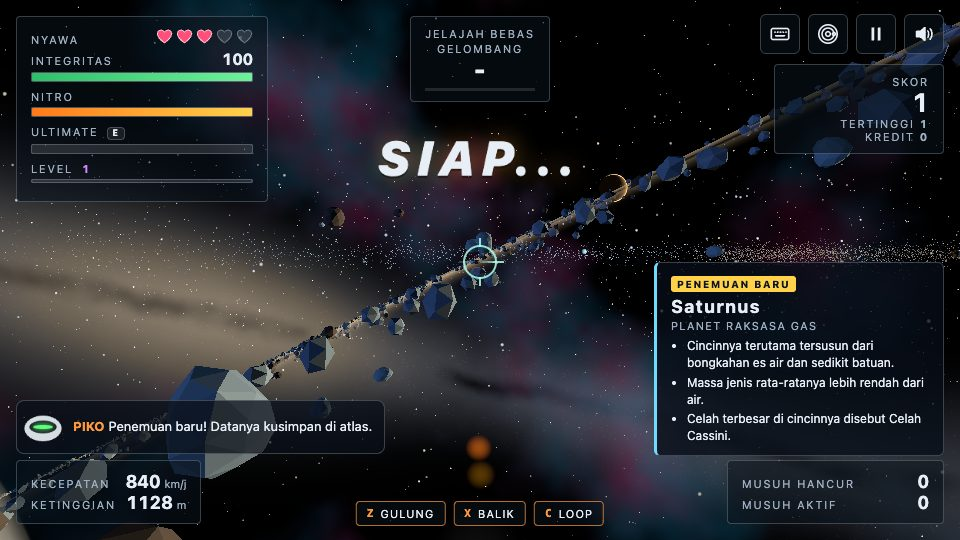
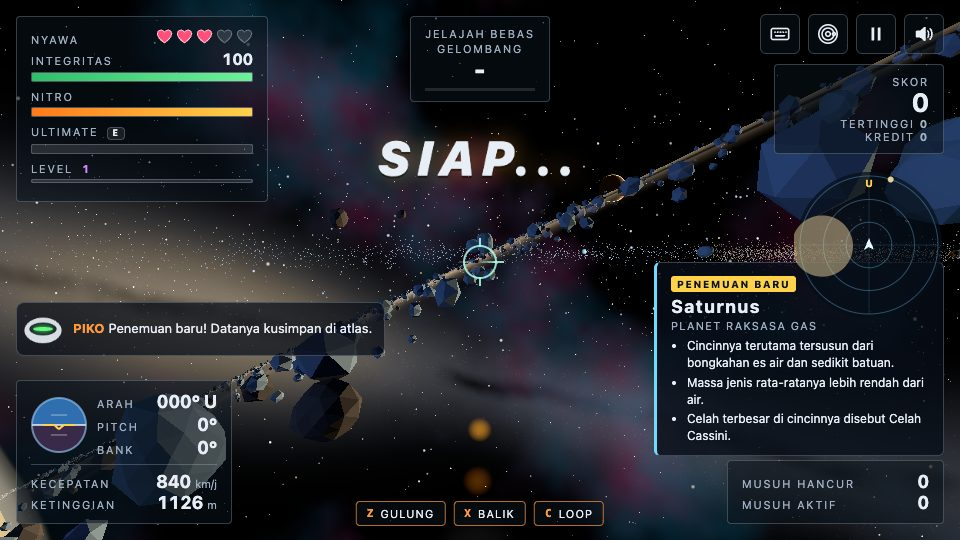
feat: S13 HUD radar minimap berputar, instrumen terbang (arah, pitch, bank, horizon buatan), dan angka skor serta damage besar
Sesuai permintaan pemain: minimap menampilkan musuh, bos, pickup, planet,
gerbang, kargo, dan target kontrak relatif arah kapal dengan panah tujuan
misi; instrumen menunjukkan arah kompas dalam derajat, pitch dan bank yang
bernilai 0 saat datar, dan horizon buatan kecil. Uji Playwright.

diff --git a/index.html b/index.html
@@ -195,7 +195,7 @@
   .buff[data-buff="destroyer"] { color: #d58bff; border-color: rgba(200, 100, 255, 0.6); }
   body.mode-hp #buffs { top: calc(200px + env(safe-area-inset-top)); }
   #piko-panel {
-    position: absolute; left: 16px; bottom: calc(86px + env(safe-area-inset-bottom)); display: flex; align-items: center; gap: 10px;
+    position: absolute; left: 16px; bottom: calc(184px + env(safe-area-inset-bottom)); display: flex; align-items: center; gap: 10px;
     max-width: min(380px, 42vw); padding: 6px 12px 6px 6px; background: rgba(8, 14, 24, 0.72); border: 1px solid var(--ui-line); border-radius: 8px;
   }
   #piko-face { width: 40px; height: 40px; flex: none; }
@@ -224,6 +224,14 @@
   #boss-fill { display: block; height: 100%; background: linear-gradient(90deg, #ff2d6a, #ff9a3c); transform-origin: left center; }
   #screen-levelup .card, #screen-contract .card { max-width: 760px; }
   .mission { color: #9fe8ff; margin-top: 2px; }
+  #radar { position: absolute; right: 16px; top: calc(170px + env(safe-area-inset-top)); width: 150px; height: 150px; }
+  .instr { display: flex; align-items: center; gap: 10px; margin-bottom: 6px; padding-bottom: 6px; border-bottom: 1px solid var(--ui-line); }
+  #attitude { width: 56px; height: 56px; flex: none; }
+  .instr-txt { display: grid; gap: 2px; min-width: 120px; }
+  .instr-txt .stat { gap: 10px; }
+  .instr-txt .num { font-size: 13px; }
+  .dmgnum.score { color: #ffd24a; font-size: 22px; text-shadow: 0 0 10px rgba(255, 190, 60, 0.6), 0 1px 2px #000; }
+  .dmgnum.hurt { color: #ff5a4a; font-size: 26px; text-shadow: 0 0 10px rgba(255, 60, 40, 0.7), 0 1px 2px #000; }
   .mission:empty { display: none; }
   .ct-head { text-align: center; }
   .ct-head h2 { font-size: clamp(22px, 4vw, 34px); margin: 4px 0 0; }
@@ -581,9 +589,18 @@
     <div class="label">KREDIT <span id="credits" class="num">0</span></div>
   </div>
   <div class="hud-block bl">
+    <div class="instr">
+      <canvas id="attitude" width="56" height="56" aria-label="Horizon buatan"></canvas>
+      <div class="instr-txt">
+        <div class="stat"><span class="label">ARAH</span><span id="hdg" class="num">000</span></div>
+        <div class="stat"><span class="label">PITCH</span><span id="pitch" class="num">0</span></div>
+        <div class="stat"><span class="label">BANK</span><span id="bank" class="num">0</span></div>
+      </div>
+    </div>
     <div class="stat"><span class="label">KECEPATAN</span><span><span id="speed" class="num">0</span> <span class="unit">km/j</span></span></div>
     <div class="stat"><span class="label">KETINGGIAN</span><span><span id="alt" class="num">0</span> <span class="unit">m</span></span></div>
   </div>
+  <canvas id="radar" width="150" height="150" aria-label="Radar"></canvas>
   <div class="hud-block br">
     <div class="stat"><span class="label">MUSUH HANCUR</span><span id="kills" class="num">0</span></div>
     <div class="stat"><span class="label">MUSUH AKTIF</span><span id="enemies" class="num">0</span></div>
@@ -1262,6 +1279,8 @@ const CONFIG = {
       laserWarn: 1.0, laserTime: 1.6, laserLength: 420, laserWidth: 5, laserHit: 22, laserCooldown: 5,
     },
   },
+  // Radar minimap (atas = arah kapal)
+  radar: { rangeSpace: 900, rangeEarth: 700, elevationMark: 40 },
   // Kontrak stage kampanye (A6)
   contracts: { clearBase: 10, clearPerStage: 2, convoyDistance: 2600, convoySpeed: 42, convoyHp: 300, huntDelay: 6, starCredits: 20 },
   // XP dan level (S11): kebutuhan XP level n = base x growth^(n-1)
@@ -8197,6 +8216,155 @@ Events.on('enemyDestroyed', (e, byPlayer) => {
 Events.on('damage', (entity, dealt) => { if (entity === Player ? Contracts.stats : false) Contracts.stats.hpLost += dealt; });
 Events.on('playerDeath', () => { if (Contracts.stats) Contracts.stats.livesLost++; });
 
+/* =====================================================================
+   RADAR DAN INSTRUMEN (S13, permintaan pemain) - minimap melingkar yang berputar
+   mengikuti arah kapal (atas = depan): musuh, bos, pickup, planet, gerbang, kargo,
+   target kontrak, dan panah tujuan misi. Instrumen: kompas arah dalam derajat,
+   pitch dan bank (0 saat datar), dan horizon buatan kecil.
+   ===================================================================== */
+const Radar = {
+  cv: document.getElementById('radar'), ctx: null, size: 0, frame: 0, counts: {},
+  att: document.getElementById('attitude'), actx: null,
+  init() {
+    const dpr = Math.min(2, window.devicePixelRatio || 1);
+    this.size = this.cv.clientWidth || 150;
+    this.cv.width = this.size * dpr; this.cv.height = this.size * dpr;
+    this.ctx = this.cv.getContext('2d');
+    this.ctx.setTransform(dpr, 0, 0, dpr, 0, 0);
+    const as = this.att.clientWidth || 56;
+    this.att.width = as * dpr; this.att.height = as * dpr;
+    this.actx = this.att.getContext('2d');
+    this.actx.setTransform(dpr, 0, 0, dpr, 0, 0);
+    this.asize = as;
+  },
+  range() { return Worlds.active === SpaceWorld ? CONFIG.radar.rangeSpace : CONFIG.radar.rangeEarth; },
+  // Posisi relatif kapal di bidang horizontal: x ke kanan, y ke depan (atas radar)
+  rel(p, out) {
+    const P = Player.pos, f = Player.forward, hl = Math.hypot(f.x, f.z) || 1, fx = f.x / hl, fz = f.z / hl;
+    const dx = p.x - P.x, dz = p.z - P.z;
+    out.x = dx * -fz + dz * fx;
+    out.y = dx * fx + dz * fz;
+    out.dy = p.y - P.y;
+    return out;
+  },
+  // Objek tujuan misi saat ini (untuk panah penunjuk)
+  objective() {
+    if (WarpGate.active) return { pos: WarpGate.group.position, color: '#6fdcff' };
+    if (Bosses.active) return { pos: (Bosses.active.anchor || Bosses.active.group).position, color: '#ff4fc8' };
+    const k = Contracts.current;
+    if (k ? !k.done : false) {
+      if (k.type === 'kawal' ? Convoy.active : false) return { pos: Convoy.dest, color: '#5dff9a' };
+      if (k.type === 'buru' ? (k.target ? k.target.active : false) : false) return { pos: k.target.pos, color: '#ffd24a' };
+    }
+    return null;
+  },
+  update() {
+    if (!this.ctx) this.init();
+    this.frame++;
+    this.updateInstruments();
+    if (this.frame % 2) return;   // radar 30 kali per detik sudah cukup
+    const c = this.ctx, S = this.size, R = S / 2 - 6, cx = S / 2, cy = S / 2, range = this.range(), k = R / range;
+    const counts = { enemy: 0, boss: 0, pickup: 0, planet: 0, gate: 0, convoy: 0, target: 0 };
+    c.clearRect(0, 0, S, S);
+    c.fillStyle = 'rgba(6, 14, 24, 0.72)';
+    c.beginPath(); c.arc(cx, cy, R + 4, 0, Math.PI * 2); c.fill();
+    c.strokeStyle = 'rgba(120, 200, 255, 0.35)'; c.lineWidth = 1;
+    for (const f of [1, 0.66, 0.33]) { c.beginPath(); c.arc(cx, cy, R * f, 0, Math.PI * 2); c.stroke(); }
+    c.beginPath(); c.moveTo(cx, cy - R); c.lineTo(cx, cy + R); c.moveTo(cx - R, cy); c.lineTo(cx + R, cy); c.strokeStyle = 'rgba(120, 200, 255, 0.15)'; c.stroke();
+    // Penanda utara (U) di tepi, ikut berputar sesuai arah kapal
+    const f = Player.forward, hd = Math.atan2(f.x, -f.z);
+    const nx = cx - Math.sin(hd) * (R - 8), ny = cy - Math.cos(hd) * (R - 8);
+    c.fillStyle = '#ffd24a'; c.font = 'bold 10px system-ui, sans-serif'; c.textAlign = 'center'; c.textBaseline = 'middle';
+    c.fillText('U', nx, ny);
+    const o = { x: 0, y: 0, dy: 0 };
+    const blip = (p, color, r, shape) => {
+      this.rel(p, o);
+      let x = o.x * k, y = o.y * k;
+      const d = Math.hypot(x, y), out = d > R;
+      if (out) { x *= R / d; y *= R / d; }
+      const px = cx + x, py = cy - y;
+      c.fillStyle = color; c.strokeStyle = color;
+      if (shape === 'diamond') { c.beginPath(); c.moveTo(px, py - r); c.lineTo(px + r, py); c.lineTo(px, py + r); c.lineTo(px - r, py); c.closePath(); c.fill(); }
+      else if (shape === 'square') c.fillRect(px - r, py - r, r * 2, r * 2);
+      else if (shape === 'ring') { c.lineWidth = 2; c.beginPath(); c.arc(px, py, r, 0, Math.PI * 2); c.stroke(); }
+      else { c.beginPath(); c.arc(px, py, r, 0, Math.PI * 2); c.fill(); }
+      // Penanda ketinggian relatif: segitiga kecil di atas atau bawah titik
+      if (out ? false : Math.abs(o.dy) > CONFIG.radar.elevationMark) {
+        c.beginPath(); const s = o.dy > 0 ? -1 : 1;
+        c.moveTo(px - 3, py + s * (r + 2)); c.lineTo(px + 3, py + s * (r + 2)); c.lineTo(px, py + s * (r + 6)); c.closePath(); c.fill();
+      }
+      return out;
+    };
+    // Planet dan bulan terdekat (angkasa)
+    if (Worlds.active === SpaceWorld ? SolarSystem.built : false) {
+      for (const b of SolarSystem.solids) {
+        const d = b.pos.distanceTo(Player.pos) - b.radius;
+        if (d > range * 4) continue;
+        this.rel(b.pos, o);
+        const col = SolarMap.colors[b.id] || SolarMap.colors[b.parent ? b.parent.id : ''] || '#9aa';
+        const inside = Math.hypot(o.x, o.y) * k < R;
+        if (inside) { c.globalAlpha = 0.5; c.fillStyle = col; c.beginPath(); c.arc(cx + o.x * k, cy - o.y * k, Math.max(3, b.radius * k), 0, Math.PI * 2); c.fill(); c.globalAlpha = 1; }
+        else blip(b.pos, col, 3);
+        counts.planet++;
+      }
+    }
+    const sp = { x: 0, y: 0, z: 0 };
+    for (let i = 0; i < CONFIG.stars.max; i++) { if (!Stars.active[i]) continue; sp.x = Stars.px[i * 3]; sp.y = Stars.px[i * 3 + 1]; sp.z = Stars.px[i * 3 + 2]; blip(sp, '#ffe066', 1.6); counts.pickup++; }
+    for (const p of Pickups.items) if (p.active) { blip(p.group.position, '#5dff9a', 2.2); counts.pickup++; }
+    for (const e of Enemies.list) {
+      if (!e.active) continue;
+      if (e.cfg.ambush ? e.cloak < 0.5 : false) continue;   // penyergap tersamar tidak terlihat di radar
+      const target = e.contractTarget;
+      blip(e.pos, target ? '#ffd24a' : e.cfg.minor ? '#ff9a7a' : '#ff4a4a', e.cfg.minor ? 1.5 : Math.min(5, 2 + e.radius * 0.3), target ? 'ring' : 'dot');
+      if (target) counts.target++; else counts.enemy++;
+    }
+    if (Bosses.active) { blip((Bosses.active.anchor || Bosses.active.group).position, '#ff4fc8', 6, 'diamond'); counts.boss++; }
+    if (WarpGate.active) { blip(WarpGate.group.position, '#6fdcff', 5, 'diamond'); counts.gate++; }
+    if (Convoy.active) { blip(Convoy.pos, '#5dff9a', 4, 'square'); blip(Convoy.dest, '#5dff9a', 5, 'ring'); counts.convoy++; }
+    // Panah tujuan misi di tepi radar
+    const obj = this.objective();
+    if (obj) {
+      this.rel(obj.pos, o);
+      const a = Math.atan2(o.x, o.y), ax = cx + Math.sin(a) * (R + 1), ay = cy - Math.cos(a) * (R + 1);
+      c.save(); c.translate(ax, ay); c.rotate(a);
+      c.fillStyle = obj.color; c.beginPath(); c.moveTo(0, -7); c.lineTo(6, 4); c.lineTo(-6, 4); c.closePath(); c.fill();
+      c.restore();
+    }
+    // Kapal pemain di tengah
+    c.fillStyle = '#e8f6ff'; c.beginPath(); c.moveTo(cx, cy - 7); c.lineTo(cx + 5, cy + 5); c.lineTo(cx, cy + 2); c.lineTo(cx - 5, cy + 5); c.closePath(); c.fill();
+    this.counts = counts;
+  },
+  // Arah kompas, pitch, bank dan horizon buatan
+  updateInstruments() {
+    const f = Player.forward, up = Player._up, right = Player._right;
+    const hdg = (Math.round(Math.atan2(f.x, -f.z) * 180 / Math.PI) + 360) % 360;
+    const pitch = Math.round(Math.asin(clamp(f.y, -1, 1)) * 180 / Math.PI);
+    const bankRad = Math.atan2(right.y, up.y), bank = Math.round(bankRad * 180 / Math.PI);
+    const dirs = ['U', 'TL', 'T', 'TG', 'S', 'BD', 'B', 'BL'];
+    this.values = { hdg, pitch, bank };
+    if (hdg !== this.lastHdg) { this.lastHdg = hdg; $('hdg').textContent = String(hdg).padStart(3, '0') + '° ' + dirs[Math.round(hdg / 45) % 8]; }
+    if (pitch !== this.lastPitch) { this.lastPitch = pitch; $('pitch').textContent = (pitch > 0 ? '+' : '') + pitch + '°'; }
+    if (bank !== this.lastBank) { this.lastBank = bank; $('bank').textContent = Math.abs(bank) + '°' + (bank > 1 ? ' KIRI' : bank < -1 ? ' KANAN' : ''); }
+    // Horizon buatan: langit di atas, bawah di bawah, miring sesuai bank dan bergeser sesuai pitch
+    const a = this.actx, S = this.asize, h = S / 2;
+    a.clearRect(0, 0, S, S);
+    a.save();
+    a.beginPath(); a.arc(h, h, h - 1, 0, Math.PI * 2); a.clip();
+    a.translate(h, h); a.rotate(bankRad);
+    const off = clamp(pitch / 90, -1, 1) * h * 1.6;
+    a.fillStyle = '#2f6fb0'; a.fillRect(-S, -S * 2 + off, S * 2, S * 2);
+    a.fillStyle = Worlds.active === SpaceWorld ? '#3a2a4a' : '#7a5a34'; a.fillRect(-S, off, S * 2, S * 2);
+    a.strokeStyle = '#fff'; a.lineWidth = 1.5; a.beginPath(); a.moveTo(-S, off); a.lineTo(S, off); a.stroke();
+    a.strokeStyle = 'rgba(255,255,255,0.5)'; a.lineWidth = 1;
+    for (const t of [-20, 20]) { const y = off - t / 90 * h * 1.6; a.beginPath(); a.moveTo(-8, y); a.lineTo(8, y); a.stroke(); }
+    a.restore();
+    // Simbol pesawat tetap di tengah
+    a.strokeStyle = '#ffd24a'; a.lineWidth = 2;
+    a.beginPath(); a.moveTo(h - 16, h); a.lineTo(h - 5, h); a.lineTo(h, h + 4); a.lineTo(h + 5, h); a.lineTo(h + 16, h); a.stroke();
+    a.strokeStyle = 'rgba(160, 210, 255, 0.6)'; a.beginPath(); a.arc(h, h, h - 1, 0, Math.PI * 2); a.stroke();
+  },
+};
+
 const EarthWorld = {
   id: 'earth',
   label: 'Atmosfer Bumi',
@@ -9626,6 +9794,24 @@ Events.on('damage', (entity, dealt, source, pos) => {
   d.el.className = entity.health.dead ? 'dmgnum kill' : 'dmgnum';
   d.el.style.color = '';
 });
+// Angka melayang besar: skor emas saat musuh hancur, damage merah saat kapal terkena
+function floatNumber(pos, text, cls, size) {
+  const d = hud.dmgNums[hud.dmgNext];
+  hud.dmgNext = (hud.dmgNext + 1) % hud.dmgNums.length;
+  d.pos.copy(pos);
+  d.ox = (frand() - 0.5) * 30;
+  d.t = 0.9;
+  d.el.textContent = text;
+  d.el.className = 'dmgnum ' + cls;
+  d.el.style.color = '';
+  d.el.style.fontSize = size ? size + 'px' : '';
+}
+Events.on('enemyDestroyed', (e, byPlayer) => {
+  if (!byPlayer ? true : e.cfg.minor) return;
+  const m = Combo.multiplier;
+  floatNumber(e.pos, '+' + Math.round(e.cfg.score * m), 'score', Math.min(40, 20 + (m - 1) * 4));   // combo besar makin mencolok
+});
+Events.on('playerHit', (amount) => { if (amount >= 1) floatNumber(_vd.copy(Player.pos).addScaledVector(Player._up, 4), '-' + Math.round(amount), 'hurt', Math.min(40, 22 + amount * 0.3)); });
 function updateDamageNumbers(dt) {
   for (let i = 0; i < hud.dmgNums.length; i++) {
     const d = hud.dmgNums[i];
@@ -9699,7 +9885,7 @@ Events.on('waveStart', (n) => showBanner(`GELOMBANG ${n}`));
 Events.on('waveCleared', (n) => showToast(`GELOMBANG ${n} SELESAI`));
 Events.on('score', (amount, label) => {
   const m = Combo.multiplier;
-  const isKill = label === 'DRONE' || label === 'PENEMBAK' || label === 'ASTEROID';
+  const isKill = label !== 'ULTIMATE' ? amount > 0 : false;
   const suffix = isKill ? (m > 1 ? `  x${m}` : '') : '';
   showToast(`+${amount} ${label}${suffix}`);
 });
@@ -9814,6 +10000,7 @@ function updateHud(dt) {
     }
   }
   updateDamageNumbers(dt);
+  if (Game.state === 'playing') Radar.update();
   v = Game.state === 'playing' ? (Player.alive ? hp < CONFIG.player.criticalHp : false) : false;
   if (changed('critical', v)) $('critical').classList.toggle('hidden', !v);
 
@@ -11341,6 +11528,7 @@ window.__game = {
     offerCards(ids) { Levels.open(ids); return Levels.offer.map((c) => c.id); },
     pickCard(id) { return Levels.choose(id); },
     companions() { return Companions.list.map((c) => ({ active: c.active, visible: c.group.visible, inScene: !!c.group.parent, d: round2(c.pos.distanceTo(Player.pos)) })); },
+    radar() { return { counts: { ...Radar.counts }, range: Radar.range(), instruments: Radar.values ? { ...Radar.values } : null, hdgText: $('hdg').textContent, pitchText: $('pitch').textContent, bankText: $('bank').textContent }; },
     startBoss(kind) { return Bosses.start(kind); },
     bossState() {
       const b = Bosses.active;

diff --git a/docs/PROGRESS.md b/docs/PROGRESS.md
@@ -43,6 +43,7 @@ Berkas ini adalah catatan kerja agar pengerjaan bisa dilanjutkan otomatis setela
 - S10 dan B13 Bosses (kerangka: BossPart dengan Health per bagian, bar HP besar di bawah kotak gelombang, peluru dan ultimate mengenai bagian, menabrak bos fatal), Penjaga Raksasa (Bumi tiap 5 gelombang, 2 fase), Penambang Raksasa (stage 5: bor berputar sebagai tanda lalu menyerbu, fase 2 lengan melempar batu), Pemburu Agung (stage 8: cepat, rentetan dan rudal, fase 2 tiga umpan tiruan), Sang Naga Vanta (stage 10: kepala dan 18 segmen mengikuti jejak berbasis jarak; fase 1 tiga generator perisai, turret dan drone; fase 2 mulut terbuka dengan laser bergaris peringatan 1 detik; fase 3 kejar-kejaran 50 detik dengan puing es dan tiga inti ekor; fase 4 inti dada yang hanya bisa dihabisi ultimate dalam 70 detik, hujan bintang merah), cutscene pembuka, peralihan fase, penutup bertahap dengan gerak lambat, layar akhir (skor, waktu, musuh, kredit dibawa pulang penuh, rating bintang) dengan LANJUT KE JELAJAH BEBAS atau MENU UTAMA. Hook startBoss, bossState, skipToPhase, damageBoss, finalState.
 - S11 Levels (XP dari musuh skor/12 maksimal 60, asteroid, komet 20, bos 150, bintang emas 20; kebutuhan 100 x 1,35^(n-1)), layar kartu menjeda permainan (state 'levelup'), 3 kartu dari 13 (UPGRADE_CARDS) berbobot kelangkaan biasa 0,68, langka 0,26, epik 0,06 dengan warna berbeda, pilih dengan 1 sampai 3, panah dan Enter, atau klik; kartu berbatas (drone 2, kartu Piko 1) tidak ditawarkan lagi; perisai energi pemain (menyerap sebelum HP, pulih setelah 4 detik); HP maksimum dan kapasitas nitro dari kartu; Companions (maks 2 drone yang terikat di samping kapal dan menembak musuh terdekat di depan); bot uji memilih kartu otomatis. HUD baris LEVEL, bar XP tipis, label PERISAI. Hook addXp, levelUp, levelState, offerCards, pickCard, companions.
 - A6 Contracts: setiap awal stage kampanye (setelah pembuka sekali per stage) kartu STAGE n beranimasi dan PILIH KONTRAK (state 'contract', angka 1 sampai 3): Buru Target (Komandan bertanda muncul setelah 6 detik, muncul lagi bila lepas), Kawal Konvoi (kapal kargo kawan 300 HP bergerak 42 unit per detik ke suar 2600 m; peluru musuh dan drone merusaknya; hancur berarti GAME OVER), Bersihkan Sektor (10 + 2 per stage musuh). Gelombang terus berjalan sampai kontrak selesai, lalu bos (bila ada), lalu layar STAGE CLEAR (skor, waktu, musuh, HP hilang, bonus kredit dan XP, rating 1 sampai 3 bintang disimpan di Save.data.campaign.ratings) dengan LANJUT (membuka gerbang loncat) atau KELUAR KE MENU (kredit dibawa penuh). Game over kampanye menampilkan stage terakhir. HUD baris misi. Pembantu uji settle() melewati cutscene, kontrak, dan kartu level.
+- S13 HUD: Radar minimap canvas 150 px di kanan bawah kotak skor, berputar mengikuti arah kapal (atas = depan), penanda U, cincin jarak, titik musuh (ukuran sesuai radius, minor lebih kecil, Penyergap tersamar tidak tampak), target kontrak bercincin emas, bos berlian magenta, gerbang berlian biru, kargo dan suar tujuan hijau, bintang dan pickup, planet dan bulan (lingkaran sesuai radius bila dalam jangkauan, penanda di tepi bila di luar), segitiga ketinggian relatif, panah tujuan misi di tepi radar. Instrumen terbang di blok kiri bawah: horizon buatan (miring sesuai bank, bergeser sesuai pitch), ARAH dalam derajat dengan mata angin U, TL, T, TG, S, BD, B, BL, PITCH bertanda, BANK dengan KIRI atau KANAN (0 saat datar). Angka skor emas besar di posisi musuh yang hancur (membesar dengan kombo) dan angka merah besar saat kapal terkena. Panel Piko dipindah di atas blok instrumen. Hook radar.
 - S8 pickup bintang lima warna (merah ultimate, hijau HP, biru nitro, emas XP dan skor, ungu nyawa) dengan magnet, jatuh dari musuh, asteroid kristal, komet dan kluster angkasa; ultimate laser E (meter dari bintang merah dan kill, sinar 2,5 detik), tombol ULTIMATE di mode HP, bar HUD. Game.xp disiapkan untuk S11.
 
 ## Urutan task berikutnya (blok terakhir menang bila bertentangan)
@@ -72,7 +73,7 @@ Fase berikutnya:
 20. (SELESAI) S10 dan B13 Mini-boss (stage 5 Penambang Raksasa, stage 8 Pemburu Agung) dan final boss Sang Naga Vanta 4 fase. Medan Bumi: bos tiap 5 gelombang.
 21. (SELESAI) S11 XP, level, kartu upgrade (kelangkaan), drone pendamping.
 22. (SELESAI) A6 Sistem stage (kartu pembuka, kontrak Buru Target, Kawal Konvoi, Bersihkan Sektor, layar Stage Clear dan rating, kredit).
-23. S13 HUD baru (radar, XP, ultimate, bar bos, misi, angka besar). Tambahan permintaan pemain 11 Nov: MINIMAP di sisi kiri atau kanan yang menampilkan musuh (dan pickup, asteroid besar, planet terdekat) relatif terhadap arah kapal, ikut berputar sesuai heading; ditambah instrumen terbang: heading atau kompas dalam derajat, sudut pitch (naik turun) dan bank atau kemiringan (kanan kiri) dalam derajat dengan titik 0 saat datar seperti posisi awal, serta ketinggian atau jarak dari titik 0 (di Bumi ketinggian, di Angkasa jarak ke permukaan dan posisi relatif titik mulai). Bisa berupa indikator horizon buatan kecil. Harus tetap rapi di mode HP (lihat task 27a).
+23. (SELESAI) S13 HUD baru (radar, XP, ultimate, bar bos, misi, angka besar). Tambahan permintaan pemain 11 Nov: MINIMAP di sisi kiri atau kanan yang menampilkan musuh (dan pickup, asteroid besar, planet terdekat) relatif terhadap arah kapal, ikut berputar sesuai heading; ditambah instrumen terbang: heading atau kompas dalam derajat, sudut pitch (naik turun) dan bank atau kemiringan (kanan kiri) dalam derajat dengan titik 0 saat datar seperti posisi awal, serta ketinggian atau jarak dari titik 0 (di Bumi ketinggian, di Angkasa jarak ke permukaan dan posisi relatif titik mulai). Bisa berupa indikator horizon buatan kecil. Harus tetap rapi di mode HP (lihat task 27a).
 24. S14 Menu attract angkasa, Pengaturan dan Tentang diperbarui, tombol ULTIMATE di mode HP, pemetaan tombol final di layar judul dan Pengaturan.
 25. S15 Audio angkasa dan musik ambient generatif (opsi Musik).
 26. A7 Dialog pilot (Raptor 13) dan Piko per stage.
